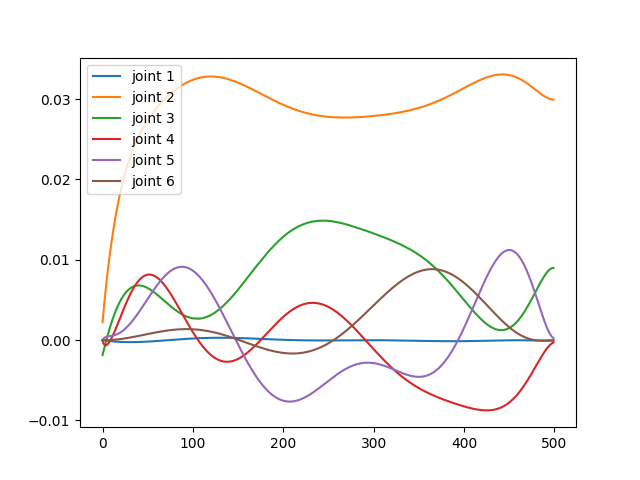
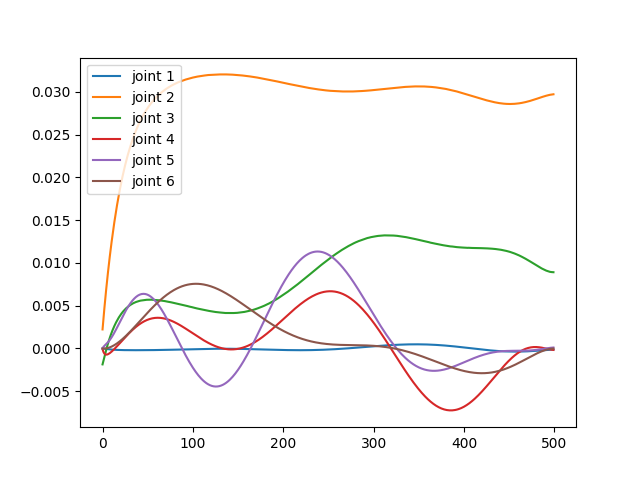
testing

diff --git a/mjx_planner_v2/mjx_planner.py b/mjx_planner_v2/mjx_planner.py
@@ -176,7 +176,7 @@ class cem_planner():
 	
 	@partial(jit, static_argnums=(0,))
 	def compute_cost_single(self, eef_pos, thetadot):
-		w1 = 0.5
+		w1 = 0.99
 		w2 = 1-w1
 		cost_g = np.min(jnp.linalg.norm(eef_pos - self.target_pos, axis=1))
 		cost_s = np.sum(jnp.linalg.norm(thetadot.reshape(self.num_dof, self.num).T, axis=1))
